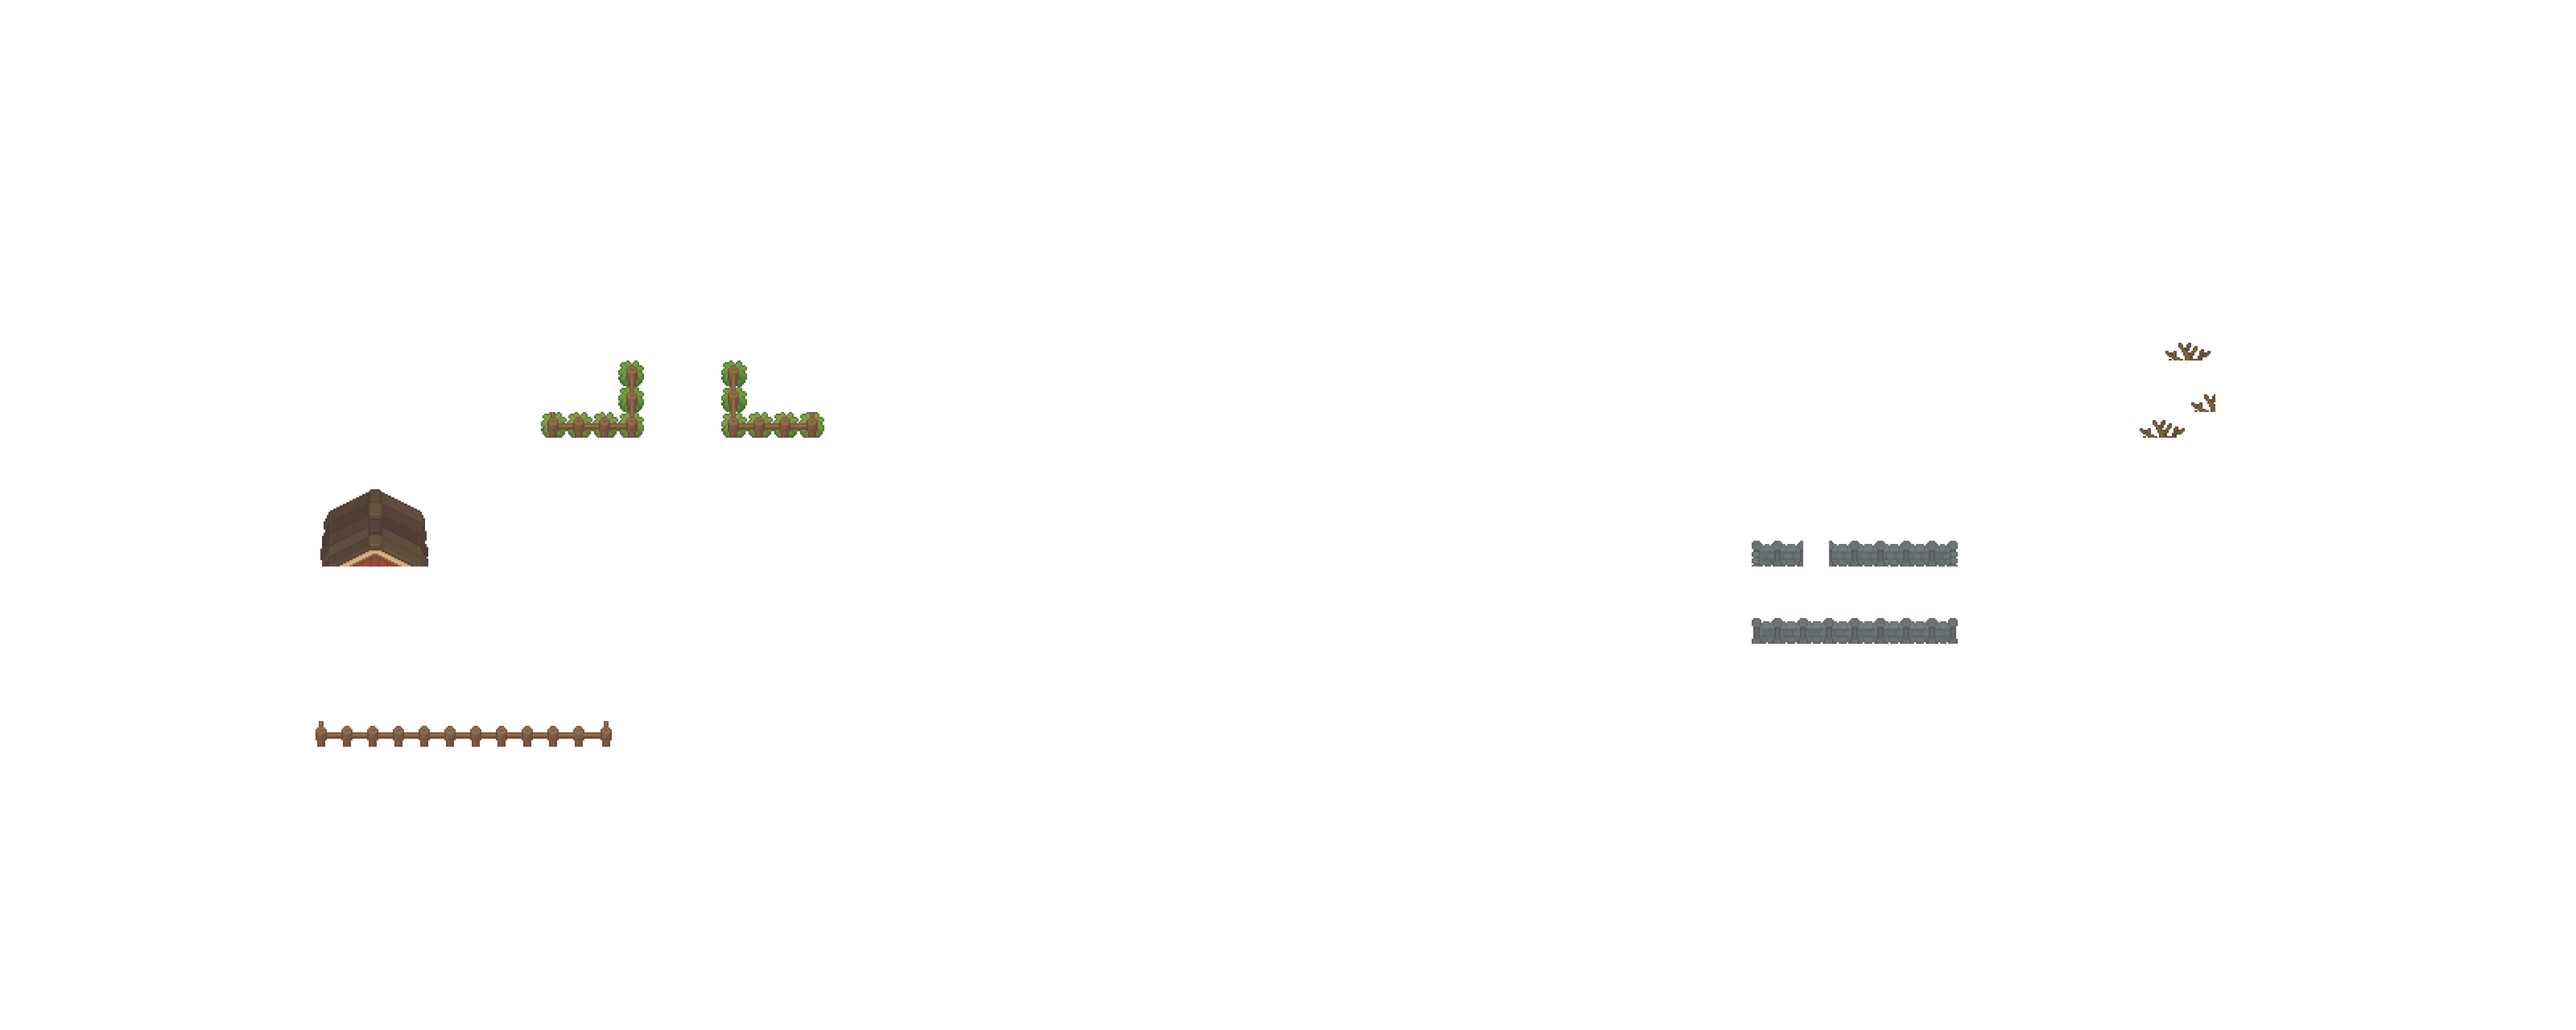
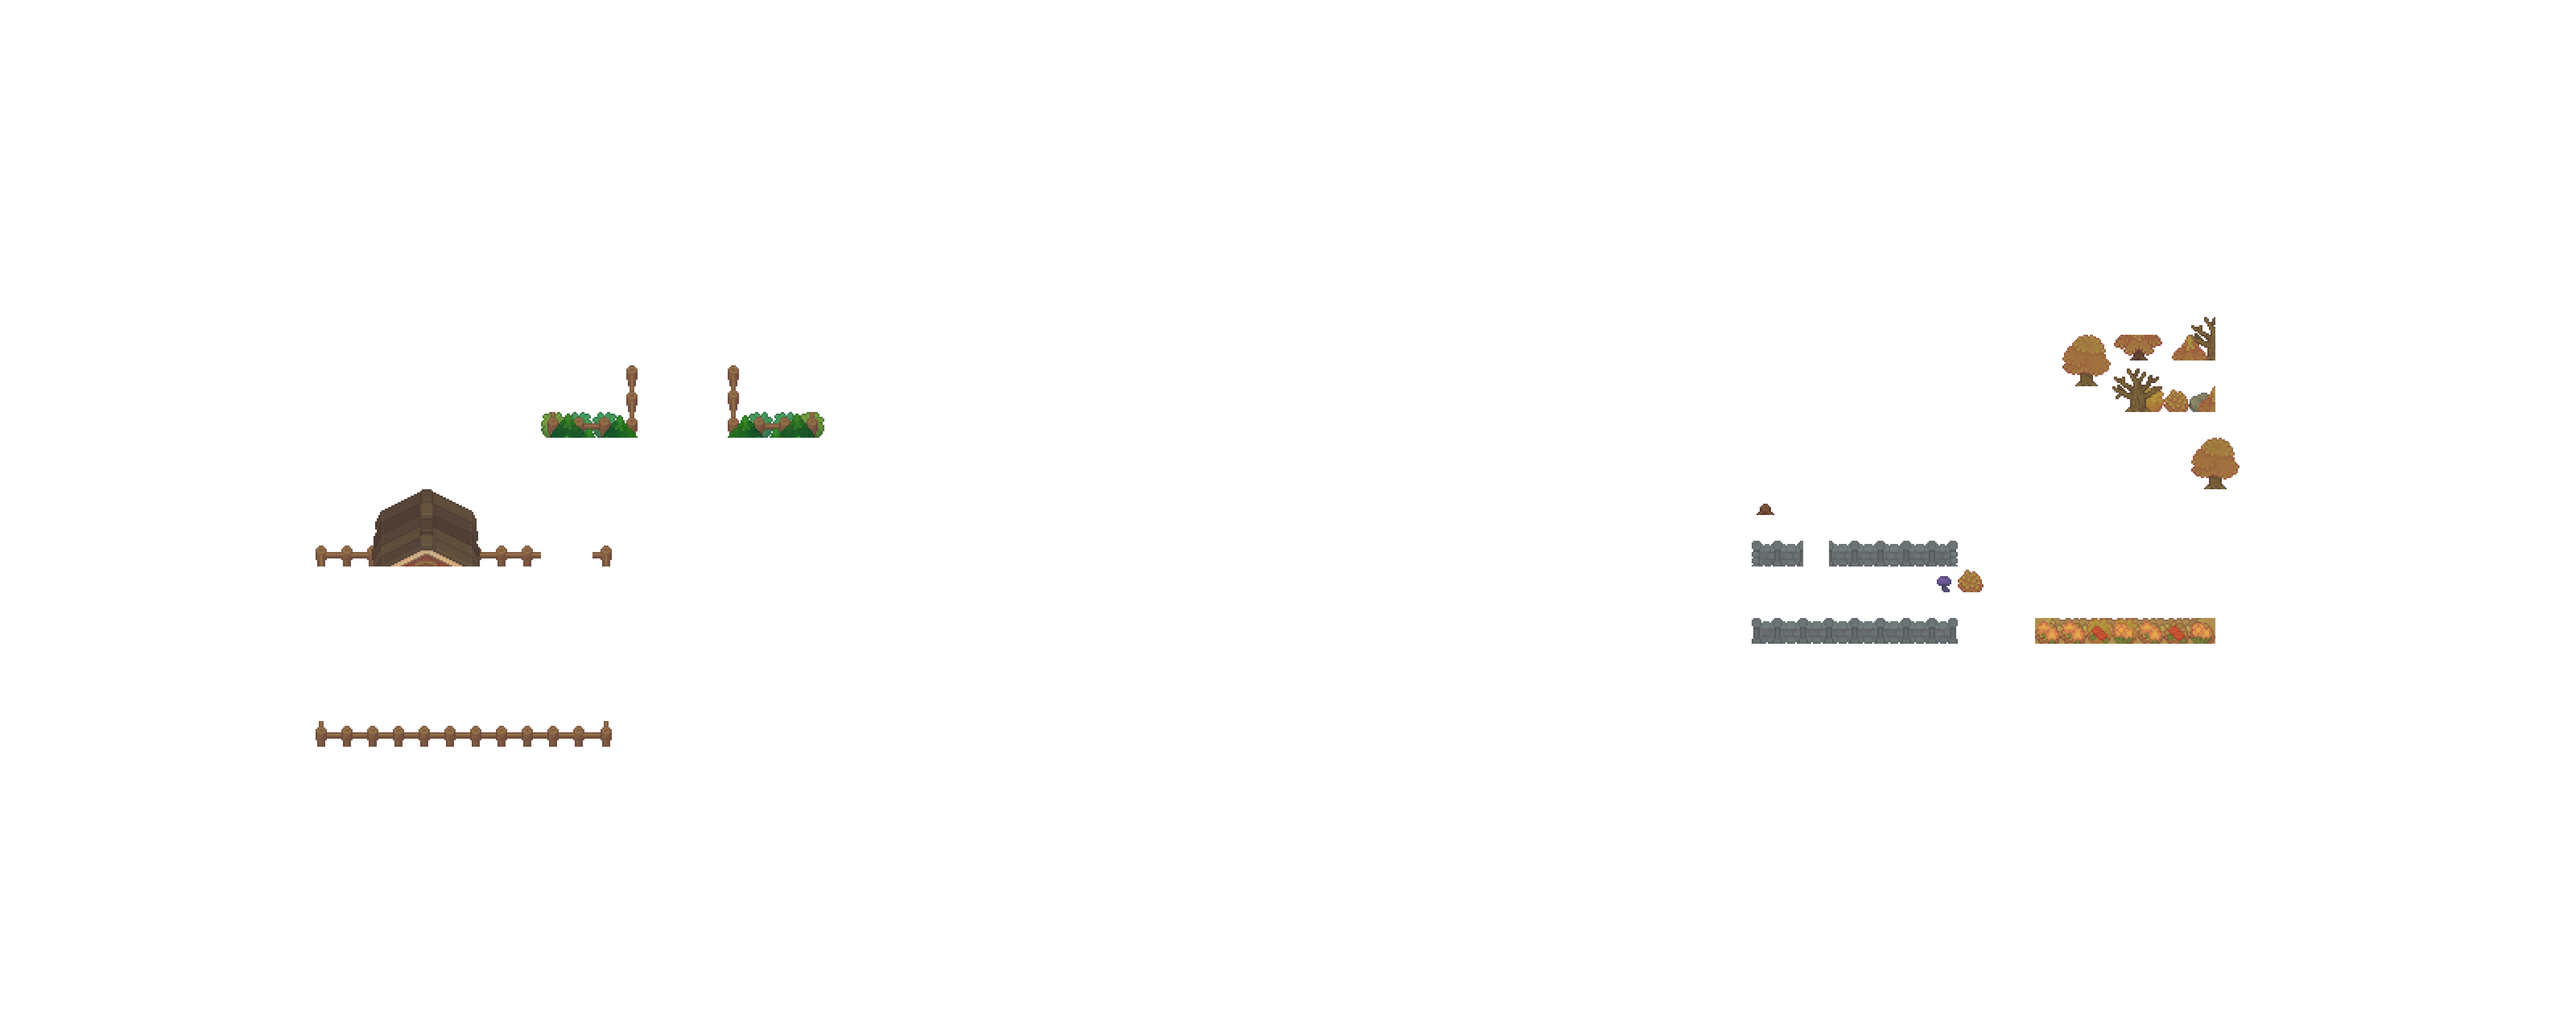
map and bounds improved

diff --git a/client/assets/collisionData.js b/client/assets/collisionData.js
@@ -7,23 +7,23 @@ const collisionData = [0, 0, 0, 0, 0, 0, 0, 0, 0, 0, 0, 0, 0, 0, 0, 0, 0, 0, 0, 
     0, 0, 0, 0, 0, 0, 0, 0, 0, 0, 0, 0, 0, 0, 0, 0, 0, 0, 0, 0, 0, 0, 0, 0, 0, 0, 0, 0, 0, 0, 0, 0, 0, 0, 0, 0, 0, 0, 0, 0, 0, 0, 0, 0, 0, 0, 0, 0, 0, 0, 0, 0, 0, 0, 0, 0, 0, 0, 0, 0, 0, 0, 0, 0, 0, 0, 0, 0, 0, 0, 0, 0, 0, 0, 0, 0, 0, 0, 0, 0, 0, 0, 0, 0, 0, 0, 0, 0, 0, 0, 0, 0, 0, 0, 0, 0, 0, 0, 0, 0,
     0, 0, 0, 0, 0, 0, 0, 0, 0, 0, 0, 0, 0, 0, 0, 0, 0, 0, 0, 0, 0, 0, 0, 0, 0, 0, 0, 0, 0, 0, 0, 0, 0, 0, 0, 0, 0, 0, 0, 0, 0, 0, 0, 0, 0, 0, 0, 0, 0, 0, 0, 0, 0, 0, 0, 0, 0, 0, 0, 0, 0, 0, 0, 0, 0, 0, 0, 0, 0, 0, 0, 0, 0, 0, 0, 0, 0, 0, 0, 0, 0, 0, 0, 0, 0, 0, 0, 0, 0, 0, 0, 0, 0, 0, 0, 0, 0, 0, 0, 0,
     0, 0, 0, 0, 0, 0, 0, 0, 0, 0, 0, 0, 0, 0, 0, 0, 0, 0, 0, 0, 0, 0, 0, 0, 0, 0, 0, 0, 0, 0, 0, 0, 0, 0, 0, 0, 0, 0, 0, 0, 0, 0, 0, 0, 0, 0, 0, 0, 0, 0, 0, 0, 0, 0, 0, 0, 0, 0, 0, 0, 0, 0, 0, 0, 0, 0, 0, 0, 0, 0, 0, 0, 0, 0, 0, 0, 0, 0, 0, 0, 0, 0, 0, 0, 0, 0, 0, 0, 0, 0, 0, 0, 0, 0, 0, 0, 0, 0, 0, 0,
-    0, 0, 0, 0, 0, 0, 0, 0, 0, 0, 0, 0, 0, 0, 0, 0, 0, 0, 0, 0, 0, 0, 0, 0, 0, 0, 0, 0, 0, 1, 1, 1, 0, 0, 0, 0, 0, 0, 0, 0, 0, 0, 0, 0, 0, 0, 0, 0, 0, 0, 0, 0, 0, 0, 0, 0, 0, 0, 0, 0, 0, 0, 0, 0, 0, 0, 0, 0, 0, 0, 0, 0, 0, 0, 0, 0, 0, 0, 0, 0, 0, 0, 0, 0, 0, 0, 0, 0, 0, 0, 0, 0, 0, 0, 0, 0, 0, 0, 0, 0,
-    0, 0, 0, 0, 0, 0, 0, 0, 0, 0, 0, 0, 0, 0, 0, 0, 0, 0, 0, 0, 1, 1, 1, 1, 0, 0, 1, 0, 1, 0, 0, 1, 0, 0, 0, 0, 0, 0, 0, 0, 0, 0, 0, 0, 0, 0, 0, 0, 0, 0, 0, 0, 0, 0, 0, 0, 0, 0, 0, 0, 0, 0, 0, 0, 0, 0, 0, 0, 0, 0, 0, 0, 0, 0, 0, 0, 0, 0, 0, 0, 0, 0, 0, 0, 0, 0, 0, 0, 0, 0, 0, 0, 0, 0, 0, 0, 0, 0, 0, 0,
-    0, 0, 0, 0, 0, 0, 0, 0, 0, 0, 0, 0, 0, 0, 0, 0, 0, 0, 0, 0, 1, 0, 0, 0, 1, 1, 0, 1, 0, 0, 0, 1, 0, 0, 0, 0, 0, 0, 0, 0, 0, 0, 0, 0, 0, 0, 0, 0, 0, 0, 0, 0, 0, 0, 0, 0, 0, 0, 0, 0, 0, 0, 0, 0, 0, 0, 0, 0, 0, 0, 0, 0, 0, 0, 0, 0, 0, 0, 1, 1, 1, 0, 0, 1, 1, 1, 1, 0, 0, 0, 0, 0, 0, 0, 0, 0, 0, 0, 0, 0,
-    0, 0, 0, 0, 0, 0, 0, 0, 0, 0, 0, 0, 0, 0, 0, 0, 0, 0, 0, 0, 1, 0, 0, 0, 0, 0, 0, 0, 0, 0, 0, 1, 0, 0, 0, 0, 0, 0, 0, 0, 0, 0, 0, 0, 0, 0, 0, 0, 0, 0, 0, 0, 0, 0, 0, 0, 0, 0, 0, 0, 0, 0, 0, 0, 0, 0, 0, 0, 0, 0, 0, 0, 0, 0, 1, 1, 1, 1, 0, 0, 0, 1, 1, 0, 0, 0, 0, 1, 0, 0, 0, 0, 0, 0, 0, 0, 0, 0, 0, 0,
-    0, 0, 0, 0, 0, 0, 0, 0, 0, 0, 0, 0, 0, 0, 0, 0, 0, 0, 0, 0, 1, 0, 0, 0, 0, 0, 0, 0, 0, 0, 0, 1, 0, 0, 0, 0, 0, 0, 0, 0, 0, 0, 0, 0, 0, 0, 0, 0, 0, 0, 0, 0, 0, 0, 0, 0, 0, 0, 0, 0, 0, 0, 0, 0, 0, 0, 0, 0, 0, 0, 0, 0, 0, 1, 0, 0, 0, 0, 0, 0, 0, 0, 0, 0, 0, 1, 0, 1, 0, 0, 0, 0, 0, 0, 0, 0, 0, 0, 0, 0,
-    0, 0, 0, 0, 0, 0, 0, 0, 0, 0, 0, 0, 0, 0, 0, 0, 0, 0, 0, 0, 1, 0, 0, 0, 1, 0, 0, 0, 1, 0, 0, 1, 0, 0, 0, 0, 0, 0, 0, 0, 0, 0, 0, 0, 0, 0, 0, 0, 0, 0, 0, 0, 0, 0, 0, 0, 0, 0, 0, 0, 0, 0, 0, 0, 0, 0, 0, 0, 0, 0, 0, 0, 0, 1, 0, 0, 0, 0, 0, 0, 0, 0, 0, 0, 0, 0, 0, 1, 0, 0, 0, 0, 0, 0, 0, 0, 0, 0, 0, 0,
-    0, 0, 0, 0, 0, 0, 0, 0, 0, 0, 0, 0, 0, 0, 0, 0, 0, 0, 0, 0, 1, 0, 0, 0, 1, 0, 0, 0, 1, 0, 0, 1, 0, 0, 0, 0, 0, 0, 0, 0, 0, 0, 0, 0, 0, 0, 0, 0, 0, 0, 0, 0, 0, 0, 0, 0, 0, 0, 0, 0, 0, 0, 0, 0, 0, 0, 0, 0, 0, 0, 0, 0, 0, 0, 1, 1, 1, 0, 0, 0, 0, 0, 0, 0, 0, 0, 1, 0, 0, 0, 0, 0, 0, 0, 0, 0, 0, 0, 0, 0,
-    0, 0, 0, 0, 0, 0, 0, 0, 0, 0, 0, 0, 0, 0, 0, 0, 0, 0, 0, 0, 1, 0, 0, 0, 1, 0, 0, 0, 1, 0, 0, 1, 0, 0, 0, 0, 0, 0, 0, 0, 0, 0, 0, 0, 0, 0, 0, 0, 0, 0, 0, 0, 0, 0, 0, 0, 0, 0, 0, 0, 0, 0, 0, 0, 0, 0, 0, 1, 1, 0, 0, 0, 0, 0, 0, 1, 1, 0, 0, 0, 0, 0, 0, 0, 1, 0, 0, 1, 0, 0, 0, 0, 0, 0, 0, 0, 0, 0, 0, 0,
-    0, 0, 0, 0, 0, 0, 0, 0, 0, 0, 0, 0, 0, 0, 0, 0, 0, 0, 0, 0, 1, 1, 1, 1, 1, 0, 0, 0, 1, 1, 1, 1, 0, 0, 0, 0, 0, 0, 0, 0, 0, 0, 0, 0, 0, 0, 0, 0, 0, 0, 0, 0, 0, 0, 0, 0, 0, 0, 0, 0, 0, 0, 0, 0, 0, 0, 1, 0, 0, 1, 0, 0, 0, 0, 1, 0, 0, 0, 0, 0, 0, 0, 0, 0, 0, 0, 0, 1, 0, 0, 0, 0, 0, 0, 0, 0, 0, 0, 0, 0,
-    0, 0, 0, 0, 0, 0, 0, 0, 0, 0, 0, 0, 0, 0, 0, 0, 0, 0, 0, 0, 1, 0, 0, 0, 0, 0, 0, 0, 0, 0, 0, 0, 1, 1, 1, 0, 0, 0, 0, 0, 0, 0, 0, 0, 0, 0, 0, 0, 0, 0, 0, 0, 0, 0, 0, 0, 0, 0, 0, 0, 0, 0, 0, 0, 0, 0, 1, 0, 0, 1, 1, 1, 1, 1, 1, 0, 0, 0, 0, 0, 0, 0, 0, 0, 0, 0, 0, 1, 0, 0, 0, 0, 0, 0, 0, 0, 0, 0, 0, 0,
-    0, 0, 0, 0, 0, 0, 0, 0, 0, 0, 0, 0, 0, 0, 0, 0, 0, 0, 0, 0, 1, 0, 0, 0, 0, 0, 0, 0, 0, 0, 0, 0, 0, 0, 0, 1, 0, 0, 0, 0, 0, 0, 0, 0, 0, 0, 0, 0, 0, 0, 0, 0, 0, 0, 0, 0, 0, 0, 0, 0, 0, 0, 0, 0, 0, 0, 1, 0, 0, 1, 1, 0, 0, 1, 1, 0, 0, 0, 0, 0, 1, 1, 1, 1, 0, 0, 0, 1, 0, 0, 0, 0, 0, 0, 0, 0, 0, 0, 0, 0,
-    0, 0, 0, 0, 0, 0, 0, 0, 0, 0, 0, 1, 1, 0, 0, 0, 1, 0, 0, 0, 1, 0, 0, 0, 0, 0, 0, 0, 0, 0, 0, 0, 0, 0, 0, 1, 0, 0, 0, 0, 0, 0, 0, 0, 0, 0, 0, 0, 0, 0, 0, 0, 0, 0, 0, 0, 0, 0, 0, 0, 0, 0, 0, 0, 0, 0, 1, 0, 0, 0, 0, 0, 0, 0, 0, 0, 0, 0, 0, 1, 0, 0, 0, 0, 0, 1, 0, 1, 0, 0, 0, 0, 0, 0, 0, 0, 0, 0, 0, 0,
-    0, 0, 0, 0, 0, 0, 0, 0, 0, 0, 0, 1, 0, 1, 1, 1, 0, 1, 1, 1, 1, 0, 0, 1, 0, 0, 0, 0, 0, 0, 0, 0, 1, 1, 1, 0, 0, 0, 0, 0, 0, 0, 0, 0, 0, 0, 0, 0, 0, 0, 0, 0, 0, 0, 0, 0, 0, 0, 0, 0, 0, 0, 0, 0, 0, 0, 1, 0, 0, 0, 0, 0, 0, 0, 0, 0, 0, 0, 0, 1, 0, 0, 0, 0, 0, 1, 0, 1, 0, 0, 0, 0, 0, 0, 0, 0, 0, 0, 0, 0,
-    0, 0, 0, 0, 0, 0, 0, 0, 0, 0, 0, 1, 0, 1, 1, 1, 0, 0, 0, 0, 0, 0, 0, 1, 0, 0, 0, 0, 0, 0, 0, 0, 0, 1, 0, 0, 0, 0, 0, 0, 0, 0, 0, 0, 0, 0, 0, 0, 0, 0, 0, 0, 0, 0, 0, 0, 0, 0, 0, 0, 0, 0, 0, 0, 0, 0, 1, 0, 0, 0, 0, 0, 0, 0, 0, 0, 0, 0, 0, 1, 0, 0, 0, 0, 0, 1, 0, 1, 0, 0, 0, 0, 0, 0, 0, 0, 0, 0, 0, 0,
-    0, 0, 0, 0, 0, 0, 0, 0, 0, 0, 0, 1, 0, 0, 0, 0, 0, 0, 0, 0, 0, 0, 0, 1, 0, 0, 0, 0, 0, 0, 0, 0, 0, 1, 0, 0, 0, 0, 0, 0, 0, 0, 0, 0, 0, 0, 0, 0, 0, 0, 0, 0, 0, 0, 0, 0, 0, 0, 0, 0, 0, 0, 0, 0, 0, 0, 1, 0, 0, 0, 0, 0, 0, 0, 0, 0, 0, 0, 0, 1, 0, 0, 0, 0, 0, 1, 1, 0, 0, 0, 0, 0, 0, 0, 0, 0, 0, 0, 0, 0,
-    0, 0, 0, 0, 0, 0, 0, 0, 0, 0, 0, 1, 0, 0, 0, 0, 0, 0, 0, 0, 0, 0, 0, 1, 0, 0, 0, 0, 0, 0, 0, 0, 0, 1, 0, 0, 0, 0, 0, 0, 0, 0, 0, 0, 0, 0, 0, 0, 0, 0, 0, 0, 0, 0, 0, 0, 0, 0, 0, 0, 0, 0, 0, 0, 0, 0, 0, 1, 0, 0, 0, 0, 0, 0, 0, 0, 0, 0, 0, 1, 1, 1, 1, 1, 1, 1, 1, 0, 0, 0, 0, 0, 0, 0, 0, 0, 0, 0, 0, 0,
-    0, 0, 0, 0, 0, 0, 0, 0, 0, 0, 0, 1, 0, 0, 0, 0, 0, 0, 0, 0, 0, 0, 0, 1, 0, 0, 0, 0, 0, 0, 0, 0, 0, 1, 0, 0, 0, 0, 0, 0, 0, 0, 0, 0, 0, 0, 0, 0, 0, 0, 0, 0, 0, 0, 0, 0, 0, 0, 0, 0, 0, 0, 0, 0, 0, 0, 0, 0, 1, 1, 1, 1, 1, 1, 1, 1, 1, 1, 1, 1, 1, 1, 1, 1, 1, 1, 1, 0, 0, 0, 0, 0, 0, 0, 0, 0, 0, 0, 0, 0,
+    0, 0, 0, 0, 0, 0, 0, 0, 0, 0, 0, 0, 0, 0, 0, 0, 0, 0, 0, 0, 0, 0, 0, 0, 0, 0, 0, 0, 0, 0, 0, 0, 0, 0, 0, 0, 0, 0, 0, 0, 0, 0, 0, 0, 0, 0, 0, 0, 0, 0, 0, 0, 0, 0, 0, 0, 0, 0, 0, 0, 0, 0, 0, 0, 0, 0, 0, 0, 0, 0, 0, 0, 0, 0, 0, 0, 0, 0, 0, 0, 0, 0, 0, 0, 0, 0, 0, 0, 0, 0, 0, 0, 0, 0, 0, 0, 0, 0, 0, 0,
+    0, 0, 0, 0, 0, 0, 0, 0, 0, 0, 0, 0, 0, 0, 0, 0, 0, 0, 0, 0, 1, 1, 1, 1, 0, 0, 1, 0, 0, 1, 1, 1, 1, 0, 0, 0, 0, 0, 0, 0, 0, 0, 0, 0, 0, 0, 0, 0, 0, 0, 0, 0, 0, 0, 0, 0, 0, 0, 0, 0, 0, 0, 0, 0, 0, 0, 0, 0, 0, 0, 0, 0, 0, 0, 0, 0, 0, 0, 0, 0, 0, 0, 0, 0, 0, 0, 0, 0, 0, 0, 0, 0, 0, 0, 0, 0, 0, 0, 0, 0,
+    0, 0, 0, 0, 0, 0, 0, 0, 0, 0, 0, 0, 0, 0, 0, 0, 0, 0, 0, 0, 1, 0, 0, 0, 1, 1, 1, 1, 1, 0, 0, 0, 1, 0, 0, 0, 0, 0, 0, 0, 0, 0, 0, 0, 0, 0, 0, 0, 0, 0, 0, 0, 0, 0, 0, 0, 0, 0, 0, 0, 0, 0, 0, 0, 0, 0, 0, 0, 0, 0, 0, 0, 0, 0, 0, 0, 0, 0, 1, 1, 1, 1, 1, 1, 1, 1, 1, 0, 0, 0, 0, 0, 0, 0, 0, 0, 0, 0, 0, 0,
+    0, 0, 0, 0, 0, 0, 0, 0, 0, 0, 0, 0, 0, 0, 0, 0, 0, 0, 0, 0, 1, 0, 0, 0, 0, 0, 0, 0, 0, 0, 0, 0, 1, 0, 0, 0, 0, 0, 0, 0, 0, 0, 0, 0, 0, 0, 0, 0, 0, 0, 0, 0, 0, 0, 0, 0, 0, 0, 0, 0, 0, 0, 0, 0, 0, 0, 0, 0, 0, 0, 0, 0, 0, 0, 1, 1, 1, 1, 0, 0, 0, 0, 0, 0, 0, 0, 1, 0, 0, 0, 0, 0, 0, 0, 0, 0, 0, 0, 0, 0,
+    0, 0, 0, 0, 0, 0, 0, 0, 0, 0, 0, 0, 0, 0, 0, 0, 0, 0, 0, 0, 1, 0, 0, 0, 0, 0, 0, 0, 0, 0, 0, 0, 1, 0, 0, 0, 0, 0, 0, 0, 0, 0, 0, 0, 0, 0, 0, 0, 0, 0, 0, 0, 0, 0, 0, 0, 0, 0, 0, 0, 0, 0, 0, 0, 0, 0, 0, 0, 0, 0, 0, 0, 0, 1, 0, 0, 0, 0, 0, 0, 0, 0, 0, 0, 0, 0, 1, 1, 0, 0, 0, 0, 0, 0, 0, 0, 0, 0, 0, 0,
+    0, 0, 0, 0, 0, 0, 0, 0, 0, 0, 0, 0, 0, 0, 0, 0, 0, 0, 0, 0, 1, 0, 0, 0, 0, 0, 0, 0, 0, 0, 0, 0, 1, 0, 0, 0, 0, 0, 0, 0, 0, 0, 0, 0, 0, 0, 0, 0, 0, 0, 0, 0, 0, 0, 0, 0, 0, 0, 0, 0, 0, 0, 0, 0, 0, 0, 0, 0, 0, 0, 0, 0, 0, 1, 0, 0, 0, 0, 0, 0, 0, 0, 0, 0, 0, 0, 0, 1, 0, 0, 0, 0, 0, 0, 0, 0, 0, 0, 0, 0,
+    0, 0, 0, 0, 0, 0, 0, 0, 0, 0, 0, 0, 0, 0, 0, 0, 0, 0, 0, 0, 1, 0, 0, 0, 1, 0, 0, 0, 1, 0, 0, 0, 1, 0, 0, 0, 0, 0, 0, 0, 0, 0, 0, 0, 0, 0, 0, 0, 0, 0, 0, 0, 0, 0, 0, 0, 0, 0, 0, 0, 0, 0, 0, 0, 0, 0, 0, 0, 0, 0, 0, 0, 0, 0, 1, 1, 1, 0, 0, 0, 0, 0, 0, 0, 0, 0, 0, 1, 0, 0, 0, 0, 0, 0, 0, 0, 0, 0, 0, 0,
+    0, 0, 0, 0, 0, 0, 0, 0, 0, 0, 0, 0, 0, 0, 0, 0, 0, 0, 0, 0, 1, 0, 0, 0, 1, 0, 0, 0, 1, 0, 0, 0, 1, 0, 0, 0, 0, 0, 0, 0, 0, 0, 0, 0, 0, 0, 0, 0, 0, 0, 0, 0, 0, 0, 0, 0, 0, 0, 0, 0, 0, 0, 0, 0, 0, 0, 0, 0, 0, 0, 0, 0, 0, 0, 0, 0, 1, 0, 0, 0, 0, 0, 0, 0, 0, 0, 0, 1, 0, 0, 0, 0, 0, 0, 0, 0, 0, 0, 0, 0,
+    0, 0, 0, 0, 0, 0, 0, 0, 0, 0, 0, 0, 0, 0, 0, 0, 0, 0, 0, 0, 1, 1, 1, 1, 1, 0, 0, 0, 1, 1, 1, 1, 0, 0, 0, 0, 0, 0, 0, 0, 0, 0, 0, 0, 0, 0, 0, 0, 0, 0, 0, 0, 0, 0, 0, 0, 0, 0, 0, 0, 0, 0, 0, 0, 0, 0, 0, 1, 1, 1, 1, 1, 1, 1, 1, 1, 1, 0, 0, 0, 0, 0, 0, 0, 0, 0, 0, 1, 0, 0, 0, 0, 0, 0, 0, 0, 0, 0, 0, 0,
+    0, 0, 0, 0, 0, 0, 0, 0, 0, 0, 0, 0, 0, 0, 0, 0, 0, 0, 0, 0, 1, 0, 0, 0, 0, 0, 0, 0, 0, 0, 0, 0, 1, 1, 1, 0, 0, 0, 0, 0, 0, 0, 0, 0, 0, 0, 0, 0, 0, 0, 0, 0, 0, 0, 0, 0, 0, 0, 0, 0, 0, 0, 0, 0, 0, 0, 1, 0, 0, 0, 1, 1, 1, 1, 0, 0, 0, 0, 0, 0, 0, 0, 0, 0, 0, 0, 1, 0, 0, 0, 0, 0, 0, 0, 0, 0, 0, 0, 0, 0,
+    0, 0, 0, 0, 0, 0, 0, 0, 0, 0, 0, 0, 0, 0, 0, 0, 0, 0, 0, 0, 1, 0, 0, 0, 0, 0, 0, 0, 0, 0, 0, 0, 0, 0, 0, 1, 0, 0, 0, 0, 0, 0, 0, 0, 0, 0, 0, 0, 0, 0, 0, 0, 0, 0, 0, 0, 0, 0, 0, 0, 0, 0, 0, 0, 0, 0, 1, 0, 0, 0, 0, 0, 0, 0, 0, 0, 0, 0, 0, 0, 1, 1, 1, 1, 0, 0, 1, 0, 0, 0, 0, 0, 0, 0, 0, 0, 0, 0, 0, 0,
+    0, 0, 0, 0, 0, 0, 0, 0, 0, 0, 0, 0, 0, 0, 0, 0, 0, 0, 0, 0, 1, 0, 0, 0, 0, 0, 0, 0, 0, 0, 0, 0, 0, 0, 0, 1, 0, 0, 0, 0, 0, 0, 0, 0, 0, 0, 0, 0, 0, 0, 0, 0, 0, 0, 0, 0, 0, 0, 0, 0, 0, 0, 0, 0, 0, 0, 1, 0, 0, 0, 0, 0, 0, 0, 0, 0, 0, 0, 0, 1, 0, 0, 0, 0, 0, 1, 0, 0, 0, 0, 0, 0, 0, 0, 0, 0, 0, 0, 0, 0,
+    0, 0, 0, 0, 0, 0, 0, 0, 0, 0, 0, 0, 1, 1, 0, 0, 0, 0, 0, 1, 1, 0, 0, 1, 0, 0, 0, 0, 0, 0, 0, 0, 1, 1, 1, 0, 0, 0, 0, 0, 0, 0, 0, 0, 0, 0, 0, 0, 0, 0, 0, 0, 0, 0, 0, 0, 0, 0, 0, 0, 0, 0, 0, 0, 0, 0, 1, 1, 1, 1, 0, 1, 1, 1, 1, 1, 0, 0, 0, 1, 0, 0, 0, 0, 0, 1, 0, 0, 0, 0, 0, 0, 0, 0, 0, 0, 0, 0, 0, 0,
+    0, 0, 0, 0, 0, 0, 0, 0, 0, 0, 0, 1, 0, 0, 1, 1, 1, 1, 1, 0, 0, 0, 0, 1, 0, 0, 0, 0, 0, 0, 0, 0, 0, 1, 0, 0, 0, 0, 0, 0, 0, 0, 0, 0, 0, 0, 0, 0, 0, 0, 0, 0, 0, 0, 0, 0, 0, 0, 0, 0, 0, 0, 0, 0, 0, 0, 0, 1, 0, 0, 0, 0, 0, 0, 0, 0, 0, 1, 1, 1, 0, 0, 0, 0, 0, 1, 0, 0, 0, 0, 0, 0, 0, 0, 0, 0, 0, 0, 0, 0,
+    0, 0, 0, 0, 0, 0, 0, 0, 0, 0, 0, 1, 0, 0, 0, 0, 0, 0, 0, 0, 0, 0, 0, 1, 0, 0, 0, 0, 0, 0, 0, 0, 0, 1, 0, 0, 0, 0, 0, 0, 0, 0, 0, 0, 0, 0, 0, 0, 0, 0, 0, 0, 0, 0, 0, 0, 0, 0, 0, 0, 0, 0, 0, 0, 0, 0, 0, 1, 0, 0, 0, 0, 0, 0, 0, 0, 1, 0, 0, 1, 0, 0, 0, 0, 0, 1, 0, 0, 0, 0, 0, 0, 0, 0, 0, 0, 0, 0, 0, 0,
+    0, 0, 0, 0, 0, 0, 0, 0, 0, 0, 0, 1, 0, 0, 0, 0, 0, 0, 0, 0, 0, 0, 0, 1, 0, 0, 0, 0, 0, 0, 0, 0, 0, 1, 0, 0, 0, 0, 0, 0, 0, 0, 0, 0, 0, 0, 0, 0, 0, 0, 0, 0, 0, 0, 0, 0, 0, 0, 0, 0, 0, 0, 0, 0, 0, 0, 0, 1, 0, 0, 0, 0, 0, 0, 0, 0, 1, 0, 0, 1, 1, 1, 1, 1, 1, 1, 0, 0, 0, 0, 0, 0, 0, 0, 0, 0, 0, 0, 0, 0,
+    0, 0, 0, 0, 0, 0, 0, 0, 0, 0, 0, 1, 0, 0, 0, 0, 0, 0, 0, 0, 0, 0, 0, 1, 0, 0, 0, 0, 0, 0, 0, 0, 0, 1, 0, 0, 0, 0, 0, 0, 0, 0, 0, 0, 0, 0, 0, 0, 0, 0, 0, 0, 0, 0, 0, 0, 0, 0, 0, 0, 0, 0, 0, 0, 0, 0, 0, 0, 1, 1, 1, 1, 1, 1, 1, 1, 0, 0, 0, 0, 0, 0, 0, 0, 0, 0, 0, 0, 0, 0, 0, 0, 0, 0, 0, 0, 0, 0, 0, 0,
     0, 0, 0, 0, 0, 0, 0, 0, 0, 0, 0, 1, 0, 0, 0, 0, 0, 0, 0, 0, 0, 0, 0, 1, 0, 0, 0, 0, 0, 0, 0, 0, 0, 1, 0, 0, 0, 0, 0, 0, 0, 0, 0, 0, 0, 0, 0, 0, 0, 0, 0, 0, 0, 0, 0, 0, 0, 0, 0, 0, 0, 0, 0, 0, 0, 0, 0, 0, 0, 0, 0, 0, 0, 0, 0, 0, 0, 0, 0, 0, 0, 0, 0, 0, 0, 0, 0, 0, 0, 0, 0, 0, 0, 0, 0, 0, 0, 0, 0, 0,
     0, 0, 0, 0, 0, 0, 0, 0, 0, 0, 0, 1, 0, 0, 0, 0, 0, 0, 0, 0, 0, 0, 0, 1, 0, 0, 0, 0, 0, 0, 0, 0, 0, 1, 0, 0, 0, 0, 0, 0, 0, 0, 0, 0, 0, 0, 0, 0, 0, 0, 0, 0, 0, 0, 0, 0, 0, 0, 0, 0, 0, 0, 0, 0, 0, 0, 0, 0, 0, 0, 0, 0, 0, 0, 0, 0, 0, 0, 0, 0, 0, 0, 0, 0, 0, 0, 0, 0, 0, 0, 0, 0, 0, 0, 0, 0, 0, 0, 0, 0,
     0, 0, 0, 0, 0, 0, 0, 0, 0, 0, 0, 1, 0, 0, 0, 0, 0, 0, 0, 0, 0, 0, 0, 1, 0, 0, 0, 0, 0, 0, 0, 0, 0, 1, 0, 0, 0, 0, 0, 0, 0, 0, 0, 0, 0, 0, 0, 0, 0, 0, 0, 0, 0, 0, 0, 0, 0, 0, 0, 0, 0, 0, 0, 0, 0, 0, 0, 0, 0, 0, 0, 0, 0, 0, 0, 0, 0, 0, 0, 0, 0, 0, 0, 0, 0, 0, 0, 0, 0, 0, 0, 0, 0, 0, 0, 0, 0, 0, 0, 0,

diff --git a/client/assets/zoneData.js b/client/assets/zoneData.js
@@ -18,11 +18,11 @@ const zoneData = [0, 0, 0, 0, 0, 0, 0, 0, 0, 0, 0, 0, 0, 0, 0, 0, 0, 0, 0, 0, 0,
     0, 0, 0, 0, 0, 0, 0, 0, 0, 0, 0, 0, 0, 0, 0, 0, 0, 0, 0, 0, 0, 0, 0, 0, 0, 0, 0, 0, 0, 0, 0, 0, 0, 0, 0, 0, 0, 0, 0, 0, 0, 0, 0, 0, 0, 0, 0, 0, 0, 0, 0, 0, 0, 0, 0, 0, 0, 0, 0, 0, 0, 0, 0, 0, 0, 0, 0, 0, 0, 0, 0, 0, 0, 0, 0, 0, 0, 0, 0, 0, 0, 0, 0, 0, 0, 0, 0, 0, 0, 0, 0, 0, 0, 0, 0, 0, 0, 0, 0, 0,
     0, 0, 0, 0, 0, 0, 0, 0, 0, 0, 0, 0, 0, 0, 0, 0, 0, 0, 0, 0, 0, 0, 0, 0, 0, 0, 0, 0, 0, 0, 0, 0, 0, 0, 0, 0, 0, 0, 0, 0, 0, 0, 0, 0, 0, 0, 0, 0, 0, 0, 0, 0, 0, 0, 0, 0, 0, 0, 0, 0, 0, 0, 0, 0, 0, 0, 0, 0, 0, 0, 0, 5, 5, 0, 0, 0, 0, 0, 0, 0, 0, 0, 0, 0, 0, 0, 0, 0, 0, 0, 0, 0, 0, 0, 0, 0, 0, 0, 0, 0,
     0, 0, 0, 0, 0, 0, 0, 0, 0, 0, 0, 0, 0, 0, 0, 0, 0, 0, 0, 0, 0, 0, 0, 0, 0, 0, 0, 0, 0, 0, 0, 0, 0, 3, 3, 0, 0, 0, 0, 0, 0, 0, 0, 0, 0, 0, 0, 0, 0, 0, 0, 0, 0, 0, 0, 0, 0, 0, 0, 0, 0, 0, 0, 0, 0, 0, 0, 0, 0, 0, 0, 5, 5, 0, 0, 0, 0, 0, 0, 0, 0, 0, 0, 0, 0, 0, 0, 0, 0, 0, 0, 0, 0, 0, 0, 0, 0, 0, 0, 0,
-    0, 0, 0, 0, 0, 0, 0, 0, 0, 0, 0, 0, 0, 0, 0, 0, 0, 0, 0, 0, 0, 0, 0, 0, 0, 0, 0, 0, 0, 0, 0, 0, 0, 3, 3, 0, 0, 0, 0, 0, 0, 0, 0, 0, 0, 0, 0, 0, 0, 0, 0, 0, 0, 0, 0, 0, 0, 0, 0, 0, 0, 0, 0, 0, 0, 0, 0, 0, 0, 0, 7, 0, 0, 0, 0, 0, 0, 0, 0, 0, 6, 6, 6, 0, 0, 0, 0, 0, 0, 0, 0, 0, 0, 0, 0, 0, 0, 0, 0, 0,
-    0, 0, 0, 0, 0, 0, 0, 0, 0, 0, 0, 0, 0, 0, 0, 0, 0, 0, 0, 0, 0, 7, 7, 0, 0, 0, 0, 0, 0, 0, 0, 0, 0, 0, 0, 0, 0, 0, 0, 0, 0, 0, 0, 0, 0, 0, 0, 0, 0, 0, 0, 0, 0, 0, 0, 0, 0, 0, 0, 0, 0, 0, 0, 0, 0, 0, 0, 0, 0, 0, 7, 0, 0, 0, 0, 0, 0, 0, 0, 0, 6, 6, 6, 6, 6, 0, 0, 0, 0, 0, 0, 0, 0, 0, 0, 0, 0, 0, 0, 0,
-    0, 0, 0, 0, 0, 0, 0, 0, 0, 0, 0, 0, 2, 2, 2, 0, 0, 0, 0, 0, 0, 0, 0, 0, 0, 0, 0, 0, 0, 0, 0, 0, 0, 0, 0, 0, 0, 0, 0, 0, 0, 0, 0, 0, 0, 0, 0, 0, 0, 0, 0, 0, 0, 0, 0, 0, 0, 0, 0, 0, 0, 0, 0, 0, 0, 0, 0, 0, 0, 0, 7, 0, 0, 0, 0, 0, 0, 0, 0, 0, 6, 6, 6, 6, 6, 0, 0, 0, 0, 0, 0, 0, 0, 0, 0, 0, 0, 0, 0, 0,
-    0, 0, 0, 0, 0, 0, 0, 0, 0, 0, 0, 0, 2, 2, 2, 0, 0, 0, 0, 0, 0, 0, 0, 0, 0, 0, 0, 0, 0, 0, 0, 0, 0, 0, 0, 0, 0, 0, 0, 0, 0, 0, 0, 0, 0, 0, 0, 0, 0, 0, 0, 0, 0, 0, 0, 0, 0, 0, 0, 0, 0, 0, 0, 0, 0, 0, 0, 0, 0, 0, 0, 0, 0, 0, 0, 0, 0, 0, 0, 0, 6, 6, 6, 6, 6, 0, 0, 0, 0, 0, 0, 0, 0, 0, 0, 0, 0, 0, 0, 0,
-    0, 0, 0, 0, 0, 0, 0, 0, 0, 0, 0, 0, 0, 0, 0, 0, 0, 0, 0, 0, 0, 0, 0, 0, 0, 0, 0, 0, 0, 0, 0, 0, 0, 0, 0, 0, 0, 0, 0, 0, 0, 0, 0, 0, 0, 0, 0, 0, 0, 0, 0, 0, 0, 0, 0, 0, 0, 0, 0, 0, 0, 0, 0, 0, 0, 0, 0, 0, 0, 0, 0, 0, 0, 0, 0, 0, 0, 0, 0, 0, 0, 0, 0, 0, 0, 0, 0, 0, 0, 0, 0, 0, 0, 0, 0, 0, 0, 0, 0, 0,
+    0, 0, 0, 0, 0, 0, 0, 0, 0, 0, 0, 0, 0, 0, 0, 0, 0, 0, 0, 0, 0, 0, 0, 0, 0, 0, 0, 0, 0, 0, 0, 0, 0, 3, 3, 0, 0, 0, 0, 0, 0, 0, 0, 0, 0, 0, 0, 0, 0, 0, 0, 0, 0, 0, 0, 0, 0, 0, 0, 0, 0, 0, 0, 0, 0, 0, 0, 0, 0, 0, 0, 0, 0, 0, 0, 0, 0, 0, 0, 0, 6, 6, 6, 0, 0, 0, 0, 0, 0, 0, 0, 0, 0, 0, 0, 0, 0, 0, 0, 0,
+    0, 0, 0, 0, 0, 0, 0, 0, 0, 0, 0, 0, 0, 0, 0, 0, 0, 0, 0, 0, 0, 7, 0, 0, 0, 0, 0, 0, 0, 0, 0, 0, 0, 3, 3, 0, 0, 0, 0, 0, 0, 0, 0, 0, 0, 0, 0, 0, 0, 0, 0, 0, 0, 0, 0, 0, 0, 0, 0, 0, 0, 0, 0, 0, 0, 0, 0, 0, 0, 0, 7, 0, 0, 0, 0, 0, 0, 0, 0, 0, 6, 6, 6, 6, 6, 0, 0, 0, 0, 0, 0, 0, 0, 0, 0, 0, 0, 0, 0, 0,
+    0, 0, 0, 0, 0, 0, 0, 0, 0, 0, 0, 0, 0, 0, 0, 2, 2, 2, 0, 0, 0, 0, 0, 0, 0, 0, 0, 0, 0, 0, 0, 0, 0, 0, 0, 0, 0, 0, 0, 0, 0, 0, 0, 0, 0, 0, 0, 0, 0, 0, 0, 0, 0, 0, 0, 0, 0, 0, 0, 0, 0, 0, 0, 0, 0, 0, 0, 0, 0, 0, 0, 0, 0, 0, 0, 0, 0, 0, 0, 0, 6, 6, 6, 6, 6, 0, 0, 0, 0, 0, 0, 0, 0, 0, 0, 0, 0, 0, 0, 0,
+    0, 0, 0, 0, 0, 0, 0, 0, 0, 0, 0, 0, 0, 0, 0, 2, 2, 2, 0, 0, 0, 0, 0, 0, 0, 0, 0, 0, 0, 0, 0, 0, 0, 0, 0, 0, 0, 0, 0, 0, 0, 0, 0, 0, 0, 0, 0, 0, 0, 0, 0, 0, 0, 0, 0, 0, 0, 0, 0, 0, 0, 0, 0, 0, 0, 0, 0, 0, 0, 0, 0, 0, 0, 0, 0, 0, 0, 0, 0, 0, 6, 6, 6, 6, 6, 0, 0, 0, 0, 0, 0, 0, 0, 0, 0, 0, 0, 0, 0, 0,
+    0, 0, 0, 0, 0, 0, 0, 0, 0, 0, 0, 0, 0, 0, 0, 2, 2, 2, 0, 0, 0, 0, 0, 0, 0, 0, 0, 0, 0, 0, 0, 0, 0, 0, 0, 0, 0, 0, 0, 0, 0, 0, 0, 0, 0, 0, 0, 0, 0, 0, 0, 0, 0, 0, 0, 0, 0, 0, 0, 0, 0, 0, 0, 0, 0, 0, 0, 0, 0, 0, 0, 0, 0, 0, 0, 0, 0, 0, 0, 0, 0, 0, 0, 0, 0, 0, 0, 0, 0, 0, 0, 0, 0, 0, 0, 0, 0, 0, 0, 0,
     0, 0, 0, 0, 0, 0, 0, 0, 0, 0, 0, 0, 0, 0, 0, 0, 0, 0, 0, 0, 0, 0, 0, 0, 0, 6, 6, 6, 6, 6, 0, 0, 0, 0, 0, 0, 0, 0, 0, 0, 0, 0, 0, 0, 0, 0, 0, 0, 0, 0, 0, 0, 0, 0, 0, 0, 0, 0, 0, 0, 0, 0, 0, 0, 0, 0, 0, 0, 0, 0, 0, 0, 0, 0, 0, 0, 0, 0, 0, 0, 0, 0, 0, 0, 0, 0, 0, 0, 0, 0, 0, 0, 0, 0, 0, 0, 0, 0, 0, 0,
     0, 0, 0, 0, 0, 0, 0, 0, 0, 0, 0, 0, 0, 0, 0, 0, 0, 0, 0, 0, 0, 0, 0, 0, 0, 6, 6, 6, 6, 6, 0, 0, 0, 0, 0, 0, 0, 0, 0, 0, 0, 0, 0, 0, 0, 0, 0, 0, 0, 0, 0, 0, 0, 0, 0, 0, 0, 0, 0, 0, 0, 0, 0, 0, 0, 0, 0, 0, 0, 0, 0, 0, 0, 0, 0, 0, 0, 0, 0, 0, 0, 0, 0, 0, 0, 0, 0, 0, 0, 0, 0, 0, 0, 0, 0, 0, 0, 0, 0, 0,
     0, 0, 0, 0, 0, 0, 0, 0, 0, 0, 0, 0, 0, 0, 0, 0, 0, 0, 0, 0, 0, 0, 0, 0, 0, 6, 6, 6, 6, 6, 0, 0, 0, 0, 0, 0, 0, 0, 0, 0, 0, 0, 0, 0, 0, 0, 0, 0, 0, 0, 0, 0, 0, 0, 0, 0, 0, 0, 0, 0, 0, 0, 0, 0, 0, 0, 0, 0, 0, 0, 0, 0, 0, 0, 0, 0, 0, 0, 0, 0, 0, 0, 0, 0, 0, 0, 0, 0, 0, 0, 0, 0, 0, 0, 0, 0, 0, 0, 0, 0,

diff --git a/client/sprites.js b/client/sprites.js
@@ -27,7 +27,7 @@ const FOREGROUND = new Sprite({
 
 const FENCE_GATE = new Sprite({
     position: {
-        x: -8,
+        x: -6,
         y: 930
     },
     image: Images.fence
